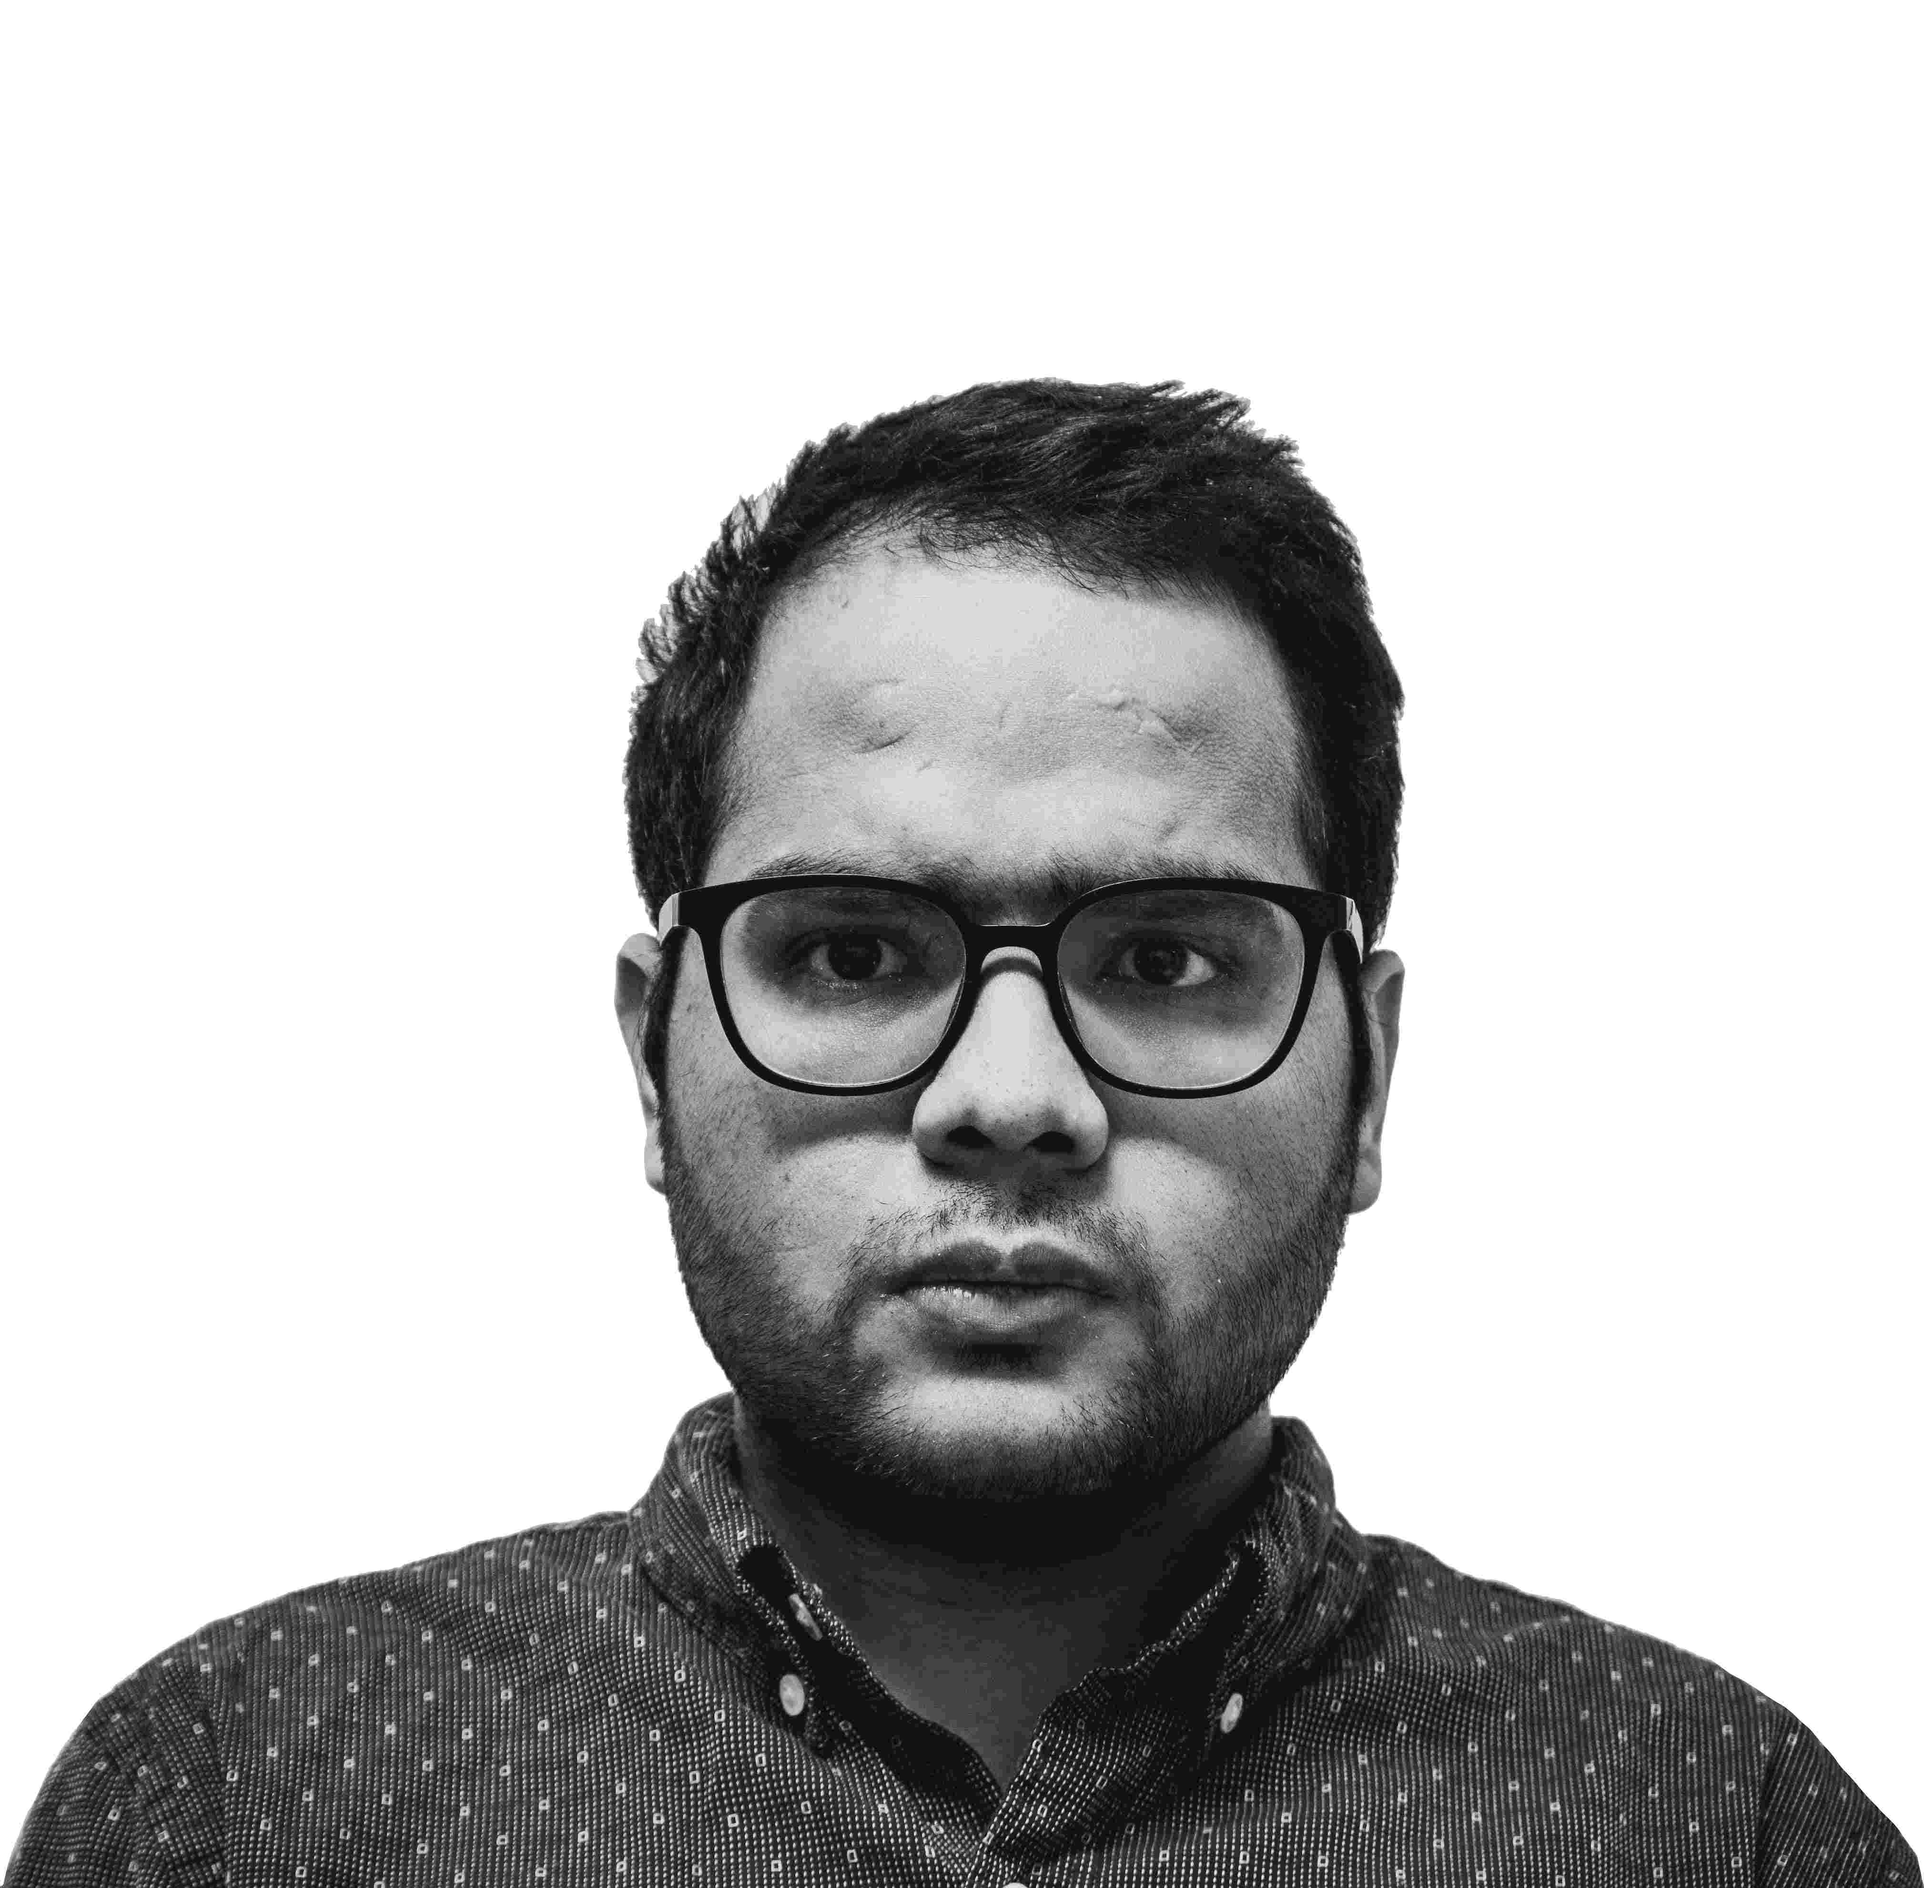
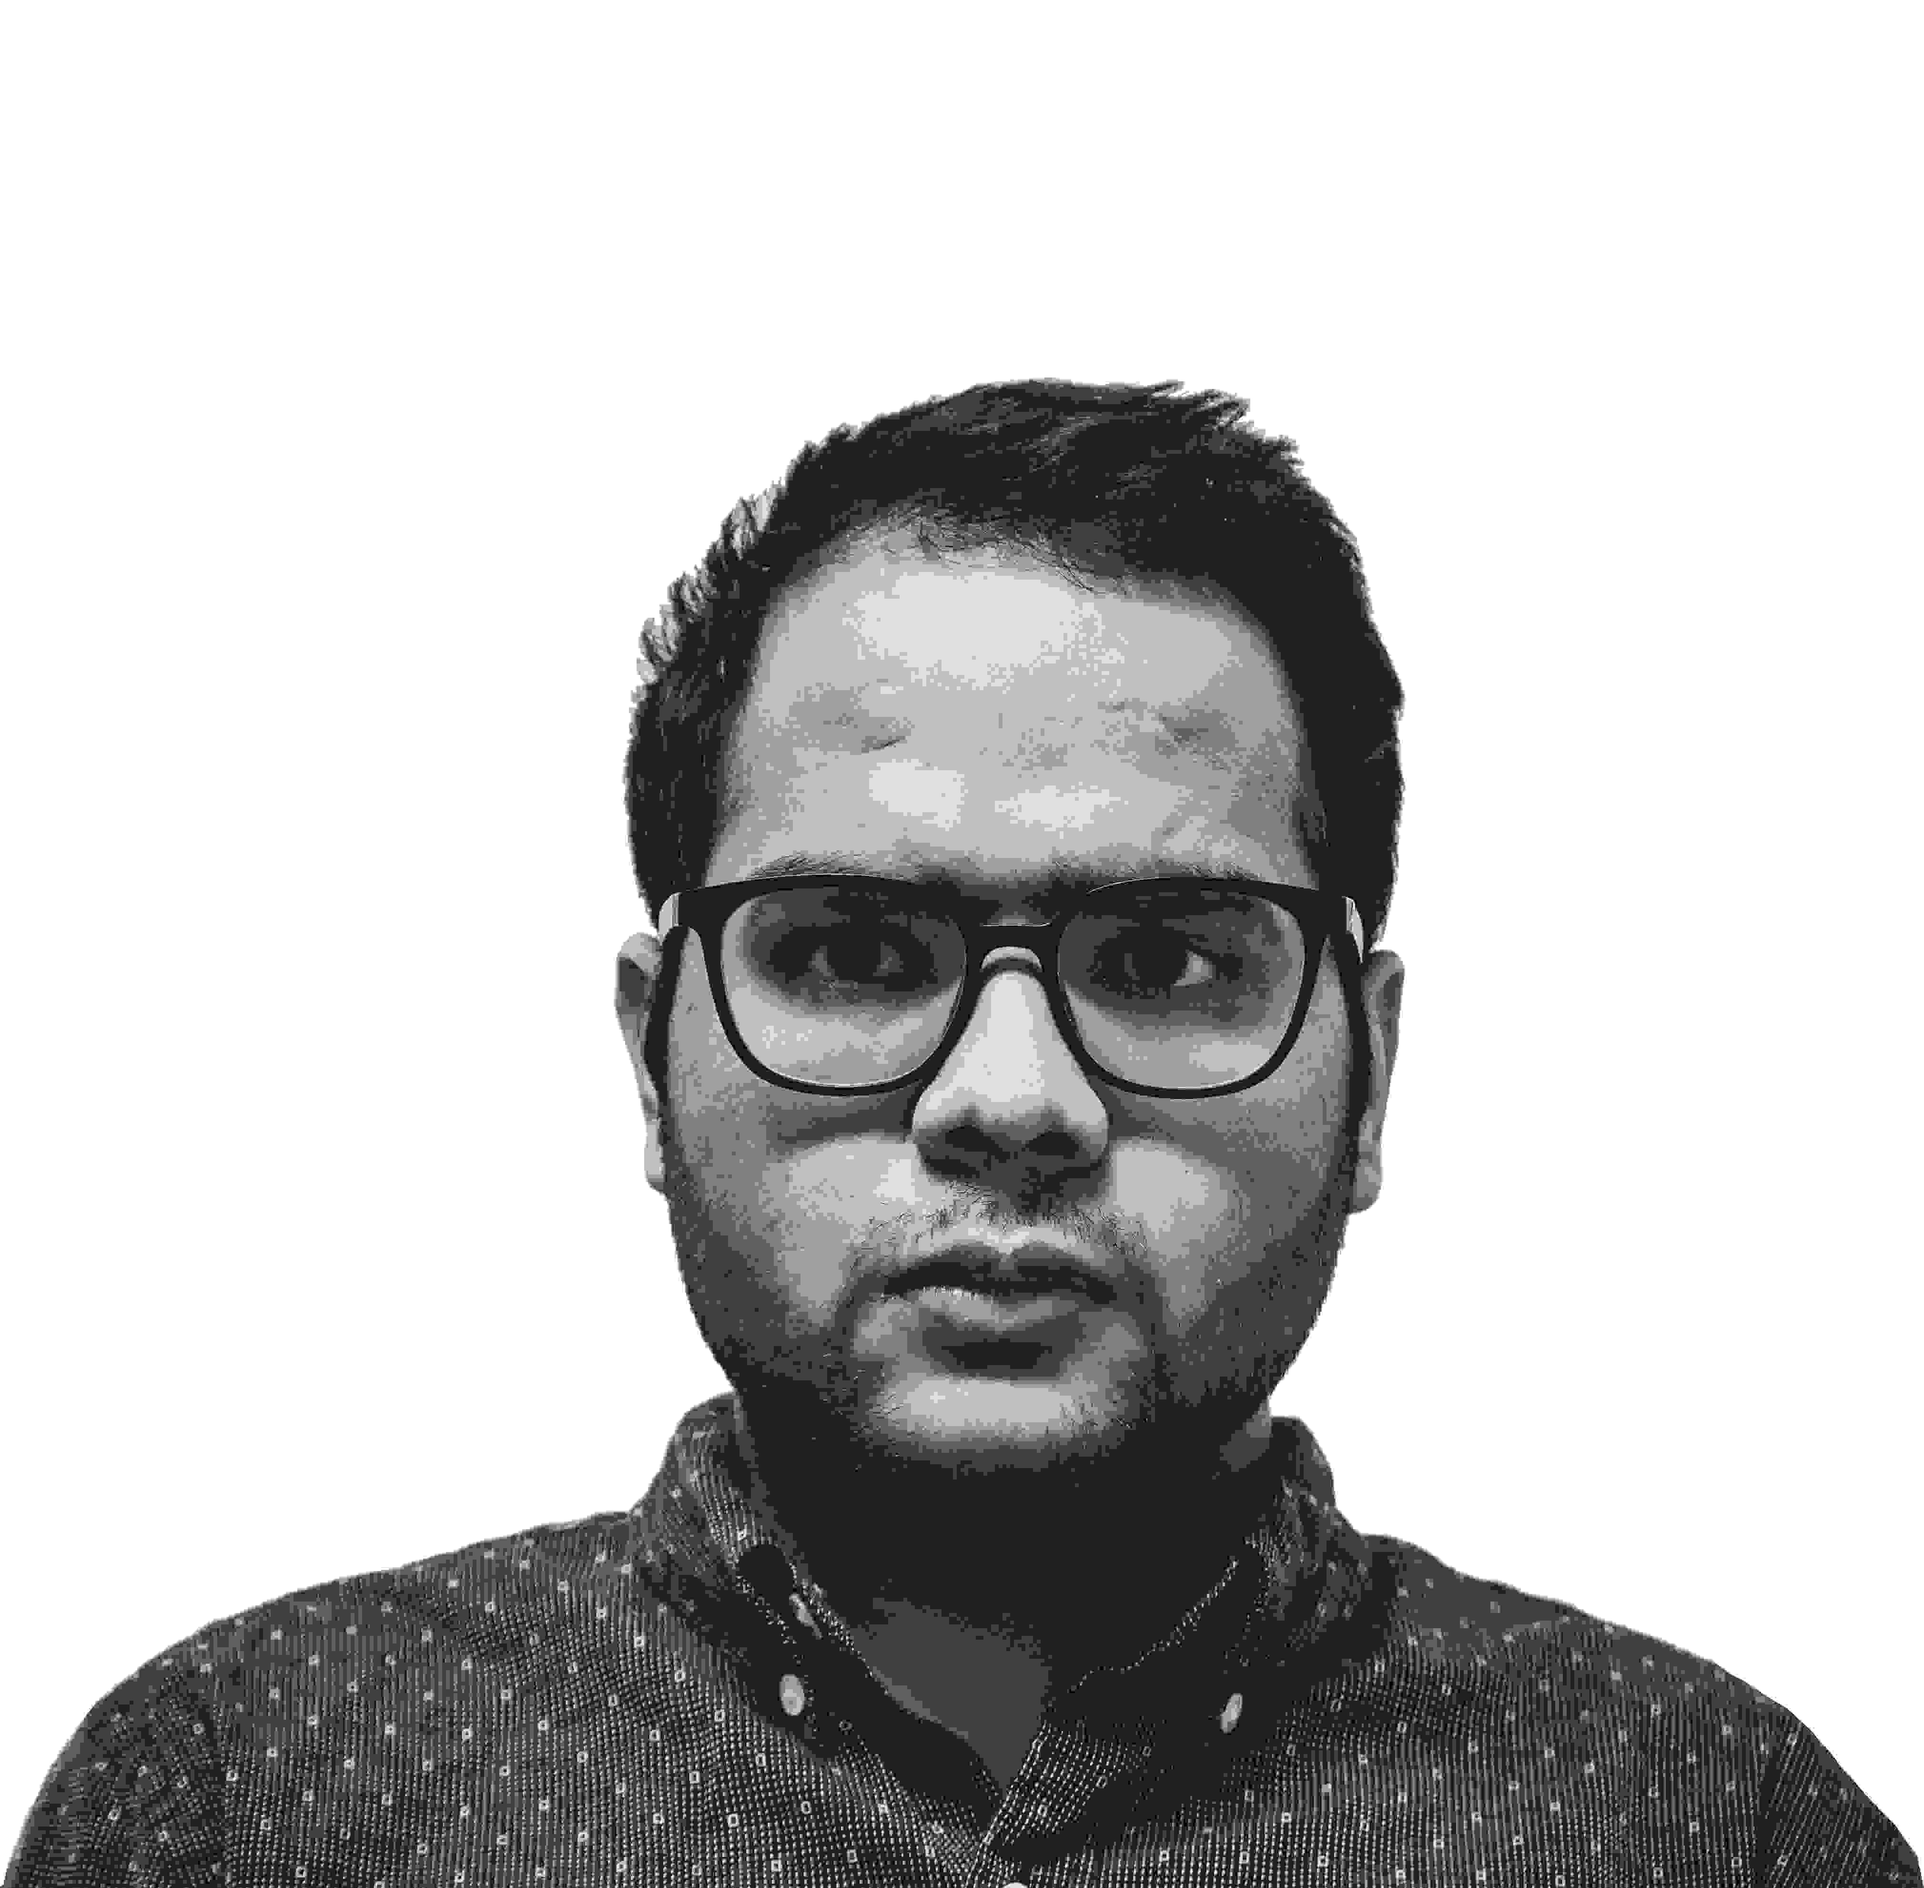
add routes and project layout
added routes and improved projects and project layout

diff --git a/src/components/About.tsx b/src/components/About.tsx
@@ -10,20 +10,12 @@ const About = () => {
                     <hr />
                 </h1>
                 <p className="about-text">
-                    yo Lorem ipsum dolor, sit amet consectetur adipisicing elit. Odit nulla ratione sunt vero dignissimos dolorum quidem at eius accusantium repellendus provident, recusandae, modi natus vitae adipisci, iusto expedita ut labore.
+                    Experiennced software developer proficient in React, Node.js, and Python frameworks.
+                    Skilled in building user-friendly front-end interfaces with React and developing scalable
+                    server-side applications. Strong problem-solving abilities and a commitment to clean,
+                    maintainable code. Collaborative team player with excellent communication skills.
                 </p>
             </div>
-            {/* <div className="image-section">
-                <h1 className="title">I like taking photos</h1>
-                <div className="gallery">
-                    <img src="src/assets/photo_gallery/PXL_20220522_035312767.jpg" alt="" />
-                    <img src="src/assets/photo_gallery/PXL_20220908_001616664.jpg" alt="" />
-                    <img src="src/assets/photo_gallery/PXL_20230813_011259541~2.jpg" alt="" />
-                    <img src="src/assets/photo_gallery/PXL_20220522_035312767.jpg" alt="" />
-                    <img src="src/assets/photo_gallery/PXL_20220522_035312767.jpg" alt="" />
-                    <img src="src/assets/photo_gallery/PXL_20220522_035312767.jpg" alt="" />
-                </div>
-            </div> */}
         </>
     )
 }

diff --git a/src/components/about.css b/src/components/about.css
@@ -15,6 +15,7 @@
     display: grid;
     grid-template-areas: "profile-photo heading"
                          "profile-photo about-text";
+    padding: 1rem;
 }
 
 .about-section > img {
@@ -24,8 +25,7 @@
     align-self: center;
     border-radius: 100%;
     margin-block: 0.5rem;
-    /* background-color: aliceblue; */
-    background-image: url("/mohit-compressed.jpg");
+    background-image: url("/image.png");
 }
 
 .about-heading {
@@ -54,6 +54,7 @@
     grid-area: about-text;
     text-align: left;
     text-wrap: pretty;
+    color: black;
 }
 
 .about-text, .about-heading {
@@ -108,7 +109,6 @@
 
     .about-heading {
         text-align: center;
-        /* align-self: center; */
         margin-top: 0;
     }
   }
@@ -119,9 +119,15 @@
         grid-template-areas: "profile-photo"
                              "heading"
                              "about-text";
+        color: black;
     }
     .about-section > img {
         width: 100%;
+    }
+
+    .about-text {
+        text-align: center;
+        margin-bottom: 1rem;
     }
 
   }

diff --git a/src/components/project.css b/src/components/project.css
@@ -1,0 +1,53 @@
+
+
+.project {
+    display: flex;
+    flex-flow: column;
+    max-width: 20.5rem;
+    background-color: white;
+    padding: 1rem;
+    border-radius: 0.5rem;
+    box-shadow: -0.5rem 0.5rem;
+}
+
+.project > img {
+    border-radius: 1.2rem;
+}
+
+.project-description > * {
+    margin: 0;
+}
+
+.project > * {
+    margin-block-end: 0.8rem;
+}
+
+.skills {
+    display: flex;
+    flex-flow: row wrap;
+}
+
+.skills > span {
+    margin: 0.3rem;
+    font-size: 0.8rem;
+    color: white;
+    padding: 0.2rem 0.6rem;
+    border-radius: 0.8rem;
+    font-weight: 600;
+}
+
+span.react {
+    background-color: teal;
+}
+
+span.javascript {
+    background-color: orangered;
+}
+
+span.tailwind {
+    background-color: rgb(254, 119, 0);
+}
+
+span.python {
+    background-color: rgb(219, 126, 3);
+}

diff --git a/src/components/Project.tsx b/src/components/Project.tsx
@@ -1,0 +1,21 @@
+import "./project.css"
+
+const Project = ({projectName, projectImage, projectInfo}) => {
+    return (
+        <div className="project">
+            <img src={`/projects_img/${projectImage}.png`} alt="project"/>
+            <div className="skills">
+                <span className="react">React</span>
+                <span className="javascript">JavaScript</span>
+                <span className="tailwind">Tailwind</span>
+                <span className="python">Python</span>
+            </div>
+            <div className="project-description">
+                <h2>{projectName}</h2>
+                <p>{projectInfo || "No info"}</p>
+            </div>
+        </div>
+    )
+}
+
+export default Project

diff --git a/src/components/NavBar.tsx b/src/components/NavBar.tsx
@@ -1,5 +1,5 @@
 import "./nav-bar.css"
-
+import { Link } from "react-router-dom"
 const NavBar = () => {
     return (
         <header>
@@ -7,9 +7,9 @@ const NavBar = () => {
                 <h2>MOHIT YADAV</h2>
             </div>
             <nav>
-                <a className="nav-item" href="">work</a>
-                <a className="nav-item" href="">projects</a>
-                <a className="nav-item" href="">about</a>
+                <Link className="nav-item" to="/projects">projects</ Link>
+                <Link className="nav-item" to="/">blog</ Link>
+                <Link className="nav-item" to="/">about</ Link>
             </nav>
         </header>
     )

diff --git a/src/App.tsx b/src/App.tsx
@@ -1,14 +1,20 @@
 import './App.css'
+import { Routes, Route } from "react-router-dom"
 import NavBar from './components/NavBar'
 import Footer from './components/Footer'
-import Hero from './components/Hero'
+import Projects from './components/Projects'
+import About from './components/About'
 
 function App() {
   return (
     <>
+      <NavBar />
       <div className='main-container'>
-        <NavBar />
-        <Hero />
+        <Routes>
+          <Route path='/' element={<About />} />
+          <Route path="/work" element={<Projects/>}/>
+          <Route path='/projects' element={<Projects />}/>
+        </Routes>
       </div>
       <Footer/>
     </>

diff --git a/src/components/nav-bar.css b/src/components/nav-bar.css
@@ -1,11 +1,11 @@
 :root {
-    --black: #3c3c3c;
+    --clr-black: #3c3c3c;
 }
 
 header {
     display: flex;
     flex-direction: column;
-    color: var(--black);
+    color: var(--clr-black);
     margin: 0;
 }
 nav {
@@ -31,8 +31,8 @@ nav {
     font-size: 1.4rem;
     letter-spacing: 0.1rem;
     font-weight: 500;
-    color: var(--black);
-    border-right: solid var(--black);
+    color: var(--clr-black);
+    border-right: solid var(--clr-black);
     padding-right: 1rem;
     min-height: 3rem;
 }
@@ -43,5 +43,5 @@ nav {
 .nav-item:hover {
     text-decoration: underline;
     font-size: 1.5rem;
-    color: black;
+    color: var(clr-black);
 }

diff --git a/src/components/Projects.tsx b/src/components/Projects.tsx
@@ -1,0 +1,14 @@
+import Project from "./project"
+import "./projects.css"
+const Projects = () => {
+    return(
+        <div className="projects">
+                <Project projectName="Library App "projectImage={"pr-1"}/>
+                <Project projectName="Library App "projectImage={"pr-1"}/>
+                <Project projectName="Library App "projectImage={"pr-1"}/>
+                <Project projectName="Library App "projectImage={"pr-1"}/>
+        </div>
+    )
+}
+
+export default Projects

diff --git a/src/App.css b/src/App.css
@@ -2,22 +2,19 @@
   max-width: 1280px;
   margin: 0 auto;
   padding: 2rem;
-  /* text-align: center; */
-
+  --clr-black: #3c3c3c;
 }
 
 .main-container {
-  border: solid 8px var(--black);
-  border-radius: 12px;
   padding: 1rem 2rem;
   width: auto;
   transition: all ease-in-out 0.3s;
+  color: var(--clr-black);
 }
 
 
 @media only screen and (max-width: 600px) {
   .main-container {
-    border: none;
     padding: 0;
   }
 

diff --git a/src/main.tsx b/src/main.tsx
@@ -2,9 +2,12 @@ import React from 'react'
 import ReactDOM from 'react-dom/client'
 import App from './App.tsx'
 import './index.css'
+import { BrowserRouter } from 'react-router-dom'
 
 ReactDOM.createRoot(document.getElementById('root')!).render(
   <React.StrictMode>
-    <App />
+    <BrowserRouter>
+      <App />
+    </BrowserRouter>
   </React.StrictMode>,
 )

diff --git a/src/components/footer.css b/src/components/footer.css
@@ -1,11 +1,17 @@
+:root {
+    --clr-black: #3c3c3c;
+}
+
 footer {
+    position: static;
+    bottom: 1rem;
     display: flex;
     justify-content: center;
 }
 
 footer > a {
     margin-inline: 0.5rem;
-    color: var(--black)
+    color: var(--clr-black)
 }
 
 footer > a:hover {

diff --git a/src/components/projects.css b/src/components/projects.css
@@ -1,0 +1,11 @@
+.projects {
+    display: flex;
+    flex-flow: row wrap;
+    margin-block: 1rem;
+    /* max-width: 1200px; */
+    margin: 0;
+    justify-content: center;
+}
+.projects > * {
+    margin: 1rem;
+}
